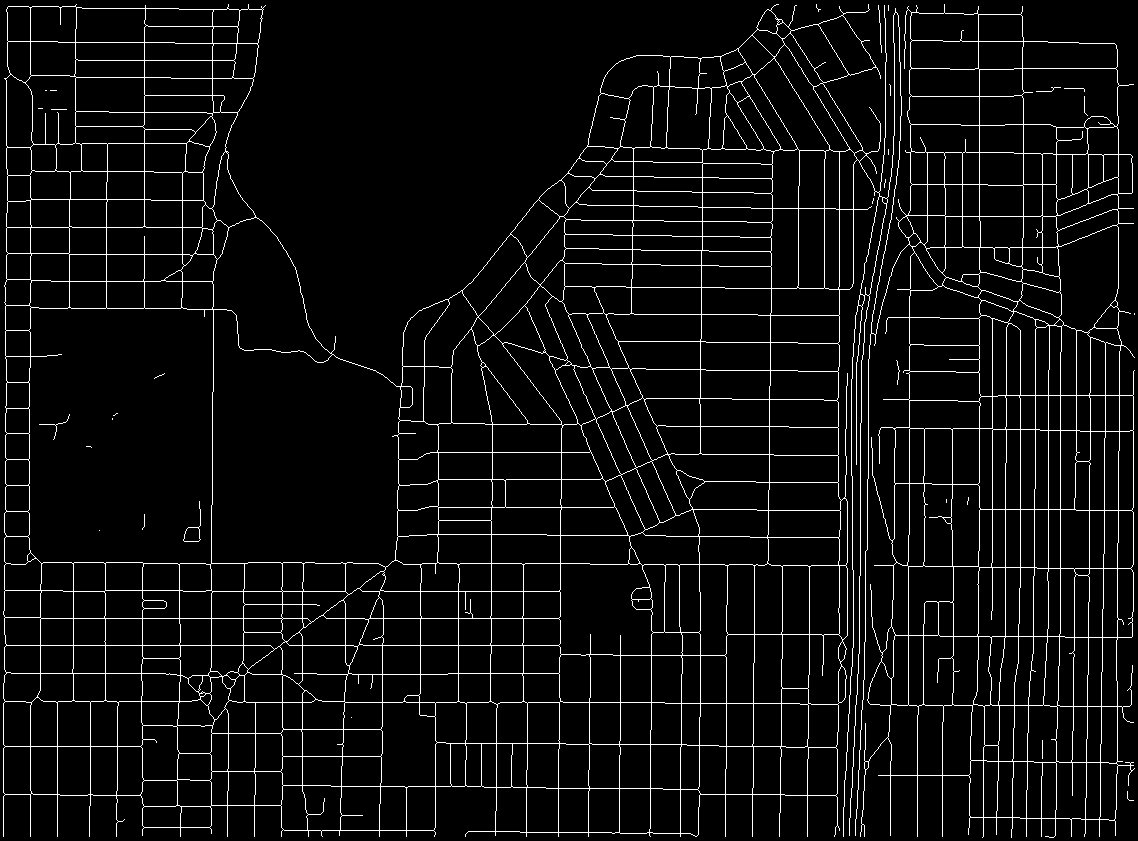
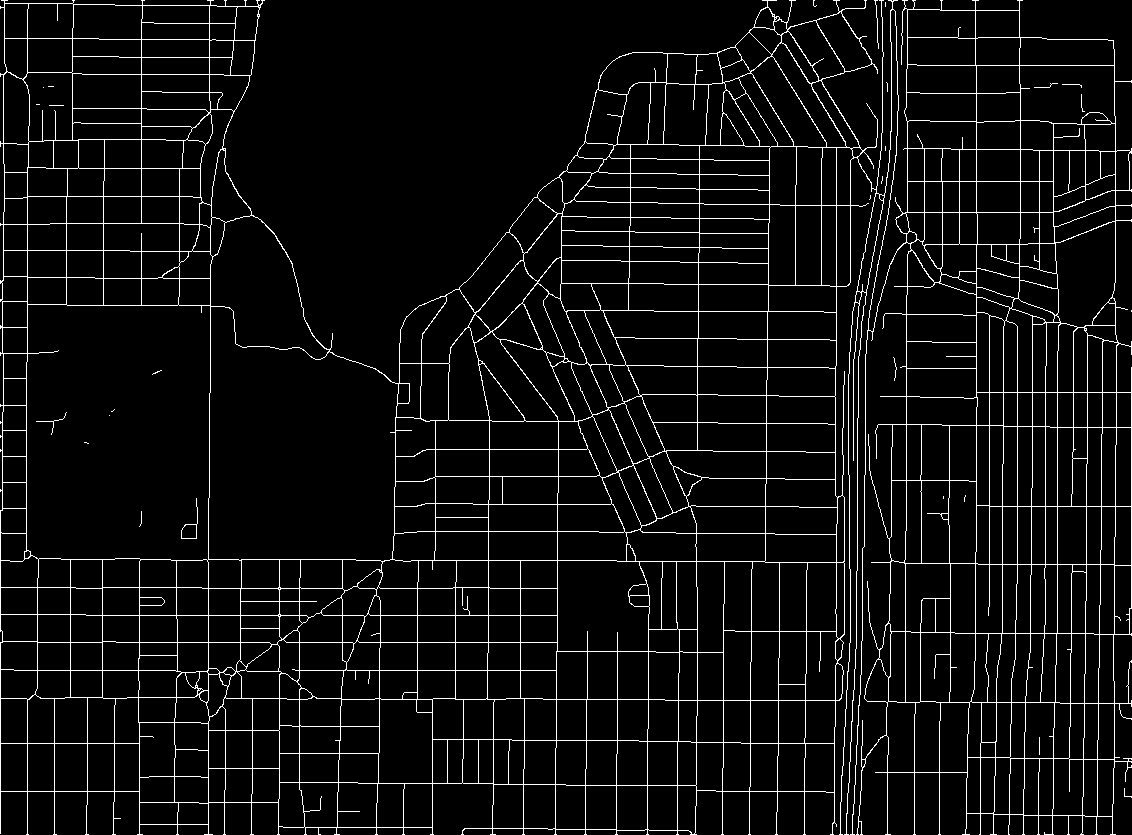
add application of graph data example added dijkstra shortest path finding algo example

Changed region(s): [[0.0, 0.0, 1.0, 1.0], [0.4329, 0.2802, 0.4638, 0.3114], [0.2783, 0.4048, 0.3092, 0.4359]]

diff --git a/main.py b/main.py
@@ -6,6 +6,7 @@ from zhang_suen_node_detection import zhang_suen_node_detection
 from breadth_first_edge_detection import breadth_first_edge_detection
 from draw import draw_graph
 import sys
+from dijkstra_usage import dijkstra_shortest_path
 
 img_path = sys.argv[1] if len(sys.argv) > 1 else None
 # check if the image path is valid else skip to use image_orig from cv2.imread
@@ -56,11 +57,11 @@ pad = 3
 padded_dil = cv2.copyMakeBorder(
     dilated_img, pad, pad, pad, pad, cv2.BORDER_CONSTANT, value=[0, 0, 0])
 
-# Perform thinning using Guo-Hall algorithm
-skeleton = cv_algorithms.guo_hall(padded_dil)
+# Perform thinning using Zhang-Suen algorithm
+skeleton = cv_algorithms.zhang_suen(dilated_img)
 
-# Or, Perform thinning using Zhang-Suen algorithm
-# skeleton = cv_algorithms.zhang_suen(dilated_img)
+# Or, Perform thinning using Zhang-suen thinning algorithm
+# skeleton = cv_algorithms.guo_hall(padded_dil)
 
 cv2.imwrite("./z-output/skeleton.png", skeleton)
 
@@ -74,6 +75,7 @@ graph = breadth_first_edge_detection(skeleton, graph)
 # add padding to the original image to draw the graph plots on it
 image_orig = cv2.copyMakeBorder(
     image_orig, pad, pad, pad, pad, cv2.BORDER_CONSTANT, value=[0, 0, 0])
+skeleton = cv2.cvtColor(skeleton, cv2.COLOR_GRAY2BGR)
 graph_img = draw_graph(image_orig, graph)
 # remove the padding
 graph_img = graph_img[pad:-pad, pad:-pad]
@@ -81,3 +83,10 @@ graph_img = graph_img[pad:-pad, pad:-pad]
 # save the graph image
 cv2.imwrite("./z-output/graph.png", graph_img)
 print("Output image path: ./z-output/graph.png")
+
+# Use the graph data to find the shortest path between two nodes using dijkstra's algorithm and draw the path on the original image
+# print("Graph nodes: ", graph.nodes())
+start_node = (53, 667)
+end_node = (758, 1024)
+dijkstra_output = dijkstra_shortest_path(graph, image_orig, start_node, end_node)
+cv2.imwrite("./z-output/dijkstra.png", dijkstra_output)

diff --git a/dijkstra_usage.py b/dijkstra_usage.py
@@ -1,0 +1,30 @@
+import networkx as nx
+import cv2
+
+# draw the shortest path using dijkstra algorithm
+def dijkstra_shortest_path(graph, background_image, node1, node2):
+  dijkstra_path = nx.dijkstra_path(
+      graph, node1, node2, weight='length')
+
+  x = 0
+  for i in range(len(dijkstra_path)-1):
+      x1, y1 = dijkstra_path[i]
+      x2, y2 = dijkstra_path[i+1]
+      cv2.line(background_image, (y1, x1), (y2, x2), (0, 0, 255), 2)
+      cv2.circle(background_image, (y1, x1), 5, (255, 192, 203), -1)
+      if x % 5 == 0:
+          cv2.namedWindow('image', cv2.WINDOW_NORMAL)
+          # cv2.putText(image_orig, str(dijkstra_path[i]), (y1, x1),
+          #             cv2.FONT_HERSHEY_SIMPLEX, 1, (255, 0, 0), 1, cv2.LINE_AA)
+          txt = str(dijkstra_path[i])
+          cv2.addText(background_image, txt,
+                      (y1, x1), "Arial", 20, (255, 0, 0))
+      x = x + 1
+
+  lastX, lastY = dijkstra_path[-1]
+  cv2.circle(background_image, (lastY, lastX), 5, (255, 192, 203), -1)
+  txt = str(dijkstra_path[-1])
+  cv2.addText(background_image, txt,
+              (lastY, lastX), "Arial", 20, (255, 0, 0))
+
+  return background_image

diff --git a/zhang_suen_node_detection.py b/zhang_suen_node_detection.py
@@ -52,11 +52,11 @@ def zhang_suen_node_detection(skel):
 
         # The function A(p1),
         # where p1 is the pixel whose neighborhood is beeing checked
-        components = (p2 == 0 and p3 == 1) + (p3 == 0 and p4 == 1) + \
-                     (p4 == 0 and p5 == 1) + (p5 == 0 and p6 == 1) + \
-                     (p6 == 0 and p7 == 1) + (p7 == 0 and p8 == 1) + \
-                     (p8 == 0 and p9 == 1) + (p9 == 0 and p2 == 1)
-        if (components >= 3) or (components == 1):
+        nbs_count = (p2 == 0 and p3 == 1) + (p3 == 0 and p4 == 1) + \
+            (p4 == 0 and p5 == 1) + (p5 == 0 and p6 == 1) + \
+            (p6 == 0 and p7 == 1) + (p7 == 0 and p8 == 1) + \
+            (p8 == 0 and p9 == 1) + (p9 == 0 and p2 == 1)
+        if (nbs_count >= 3) or (nbs_count == 1):
             accept_pixel_as_node = True
         return accept_pixel_as_node
 

diff --git a/draw.py b/draw.py
@@ -32,9 +32,12 @@ def draw_nodes(img, graph, radius=NODESIZERADIUS):
     Returns:
         Input image img with nodes drawn into it
     """
+    
     for x, y in graph.nodes():
         cv2.rectangle(img, (y - radius, x - radius), (y + radius, x + radius),
                       (255, 0, 0), -1)
+        # cv2.namedWindow('image', cv2.WINDOW_NORMAL)
+        # cv2.addText(img, str(x) + "," + str(y), (y, x), "Arial", 10, (255, 0, 0))
     return img
 
 
